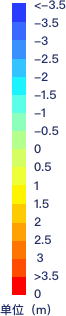
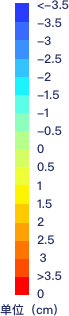
优化图例，优化播放轴

diff --git a/src/app/servers.service.ts b/src/app/servers.service.ts
@@ -34,53 +34,53 @@ export class ServersService {
       pieces: [
         {
           gte: 0,
-          lte: 4,
+          lte: 8,
           color: '#e6f0ff',
         },
         {
-          gte: 4,
-          lte: 5,
+          gte: 8,
+          lte: 10.7,
           color: '#d2e8ff',
         },
         {
-          gte: 5,
-          lte: 6,
+          gte: 10.7,
+          lte: 13.8,
           color: '#fae9d4',
         },
         {
-          gte: 6,
-          lte: 7,
+          gte: 13.8,
+          lte: 17.1,
           color: '#f0cab1',
         },
         {
-          gte: 7,
-          lte: 8,
+          gte: 17.1,
+          lte: 20.7,
           color: '#e6ad91',
         },
         {
-          gte: 8,
-          lte: 9,
+          gte: 20.7,
+          lte: 24.4,
           color: '#cc7958',
         },
         {
-          gte: 9,
-          lte: 10,
+          gte: 24.4,
+          lte: 28.4,
           color: '#c86437',
         },
         {
-          gte: 10,
-          lte: 11,
+          gte: 28.4,
+          lte: 32.6,
           color: '#be502a',
         },
         {
-          gte: 12,
+          gte: 32.6,
           color: '#a0351d',
         }
       ],
       outOfRange: {
         color: '#e6f0ff'
       },
-      max:12,
+      max: 33,
       hasChart:true,
       hasChartKey: true,
       hasAngle: true,
@@ -205,86 +205,61 @@ export class ServersService {
       pieces: [
         {
           gte: 0,
-          lte: 4,
-          color: '#0000ff',
+          lte: 5,
+          color: '#1800FF',
         },
         {
-          gte: 4,
-          lte: 6,
-          color: '#293cff',
-        },
-        {
-          gte: 6,
-          lte: 8,
-          color: '#3969ff',
-        },
-        {
-          gte: 8,
-          lte: 10,
-          color: '#3992ff',
-        },
-        {
-          gte: 10,
-          lte: 12,
-          color: '#31c3ff',
-        },
-        {
-          gte: 12,
-          lte: 14,
-          color: '#18f3ff',
-        },
-        {
-          gte: 14,
+          gte: 15,
           lte: 16,
-          color: '#5affe7',
+          color: '#3891FF',
         },
         {
           gte: 16,
+          lte: 17,
+          color: '#18F2FF',
+        },
+        {
+          gte: 17,
           lte: 18,
-          color: '#8cffbd',
+          color: '#59FFE7',
         },
         {
           gte: 18,
+          lte: 19,
+          color: '#B5FF8C',
+        },
+        {
+          gte: 19,
           lte: 20,
-          color: '#b5ff8c',
+          color: '#EFFF39',
         },
         {
           gte: 20,
+          lte: 21,
+          color: '#FFF500',
+        },
+        {
+          gte: 21,
           lte: 22,
-          color: '#d6ff63',
+          color: '#FFCB03',
         },
         {
           gte: 22,
+          lte: 23,
+          color: '#FEA200',
+        },
+        {
+          gte: 23,
           lte: 24,
-          color: '#efff39',
+          color: '#FF4C00',
         },
         {
           gte: 24,
-          lte: 26,
-          color: '#fff300',
+          lte: 25,
+          color: '#FE0000',
         },
         {
-          gte: 26,
-          lte: 28,
-          color: '#ffcb00',
-        },
-        {
-          gte: 28,
-          lte: 30,
-          color: '#ffa200',
-        },
-        {
-          gte: 30,
-          lte: 32,
-          color: '#ff7500',
-        },
-        {
-          gte: 32,
-          lte: 34,
-          color: '#ff4d00',
-        },
-        {
-          gte: 36,
+          gte: 25,
           color: '#ff0000',
         }
       ],
@@ -300,7 +275,7 @@ export class ServersService {
       mapServer: "SAL/MapServer",
       chartName: "salinity",
       icon: "iconGroup3",
-      unit: "‰",
+      unit: "",
       seriesRightName: '盐度',
       pieces: [
         {
@@ -405,7 +380,7 @@ export class ServersService {
       mapServer: "TIDE/MapServer",
       chartName: "tide",
       icon: "iconlang",
-      unit: "m",
+      unit: "cm",
       seriesRightName: '潮高',
       pieces: [
         {

diff --git a/src/app/pages/data-forecast/data-forecast.component.ts b/src/app/pages/data-forecast/data-forecast.component.ts
@@ -92,7 +92,7 @@ export class DataForecastComponent implements OnInit, AfterViewInit, OnDestroy {
       this.playTime = data[0].PUBLISHTIME;
       this.barList = [];
       // this.server.sublayerList = [];
-      for (var i = 0; i < 72; i++) {
+      for (var i = 0; i < 73; i++) {
         this.barList.push({
           active: i === 0 ? true : false,
           name: format(addHours(new Date(this.publishtime), i), 'dd日HH时'),
@@ -376,7 +376,7 @@ export class DataForecastComponent implements OnInit, AfterViewInit, OnDestroy {
           boundaryGap: false,
           data: categorieList,
           axisLabel: {
-            interval: 12,
+            interval: 11,
             formatter: function (value, index) {
               return value.substring(8, 10).replace(/\s*/g, "") + '日' + value.substring(10, value.length)
             }

diff --git a/src/app/pages/coastal/coastal.component.ts b/src/app/pages/coastal/coastal.component.ts
@@ -32,7 +32,7 @@ export interface VirtualDataInterface {
 export class CoastalComponent implements OnInit {
   public api_productpublishtime = "/jx/seaforecastpic/";//大面
   public api_chart = "/jx/seaforecast/";//曲线
-  public api_MapServer = "http://xxs.dhybzx.org:6086/arcgis/rest/services/";//地图服务
+  public api_MapServer = "https://xxs.dhybzx.org:6086/arcgis/rest/services/";//地图服务
   public isSpinning = true;
   public listOfData = [];
   public chartData: any = null;
@@ -415,7 +415,7 @@ export class CoastalComponent implements OnInit {
           data: categorieList,
           axisLabel: {
             color:'#222D65',
-            interval: 12,
+            interval: 11,
             formatter: function (value, index) {
               return value.substring(8, value.length)
             }

diff --git a/src/app/pages/data-forecast/data-forecast.component.html b/src/app/pages/data-forecast/data-forecast.component.html
@@ -41,7 +41,7 @@
         <div class="pop-content">
             <div nz-row nzGutter="0">
                 <div nz-col nzSpan="24" nzOffset="0" style="font-weight: 500;">
-                    <span class="unit">{{selectedType.seriesRightName}}(单位：{{selectedType.unit}})</span>
+                    <span class="unit">{{selectedType.seriesRightName}} <ng-container *ngIf="selectedType.unit">(单位：{{selectedType.unit}})</ng-container></span>
                 </div>
                 <div nz-col nzSpan="24" nzOffset="0">
                     <!-- <app-highcharts [chartsObj]='chartData'></app-highcharts> -->

diff --git a/src/app/pages/key-guarantee/key-guarantee.component.ts b/src/app/pages/key-guarantee/key-guarantee.component.ts
@@ -288,7 +288,7 @@ export class KeyGuaranteeComponent implements OnInit {
           boundaryGap: false,
           data: categorieList,
           axisLabel: {
-            interval: 12,
+            interval: 11,
             formatter: function (value, index) {
               return value.substring(8, value.length)
             }

diff --git a/src/app/pages/data-forecast/data-forecast.component.less b/src/app/pages/data-forecast/data-forecast.component.less
@@ -63,7 +63,7 @@
     position: fixed;
     bottom: 30px;
     left: calc(50vw - 600px);
-    padding: 12px 20px 18px 20px;
+    padding: 12px 20px 18px 15px;
     background-color: rgba(255,255,255,.5);
     border:1px solid #fff;
     .bars{
